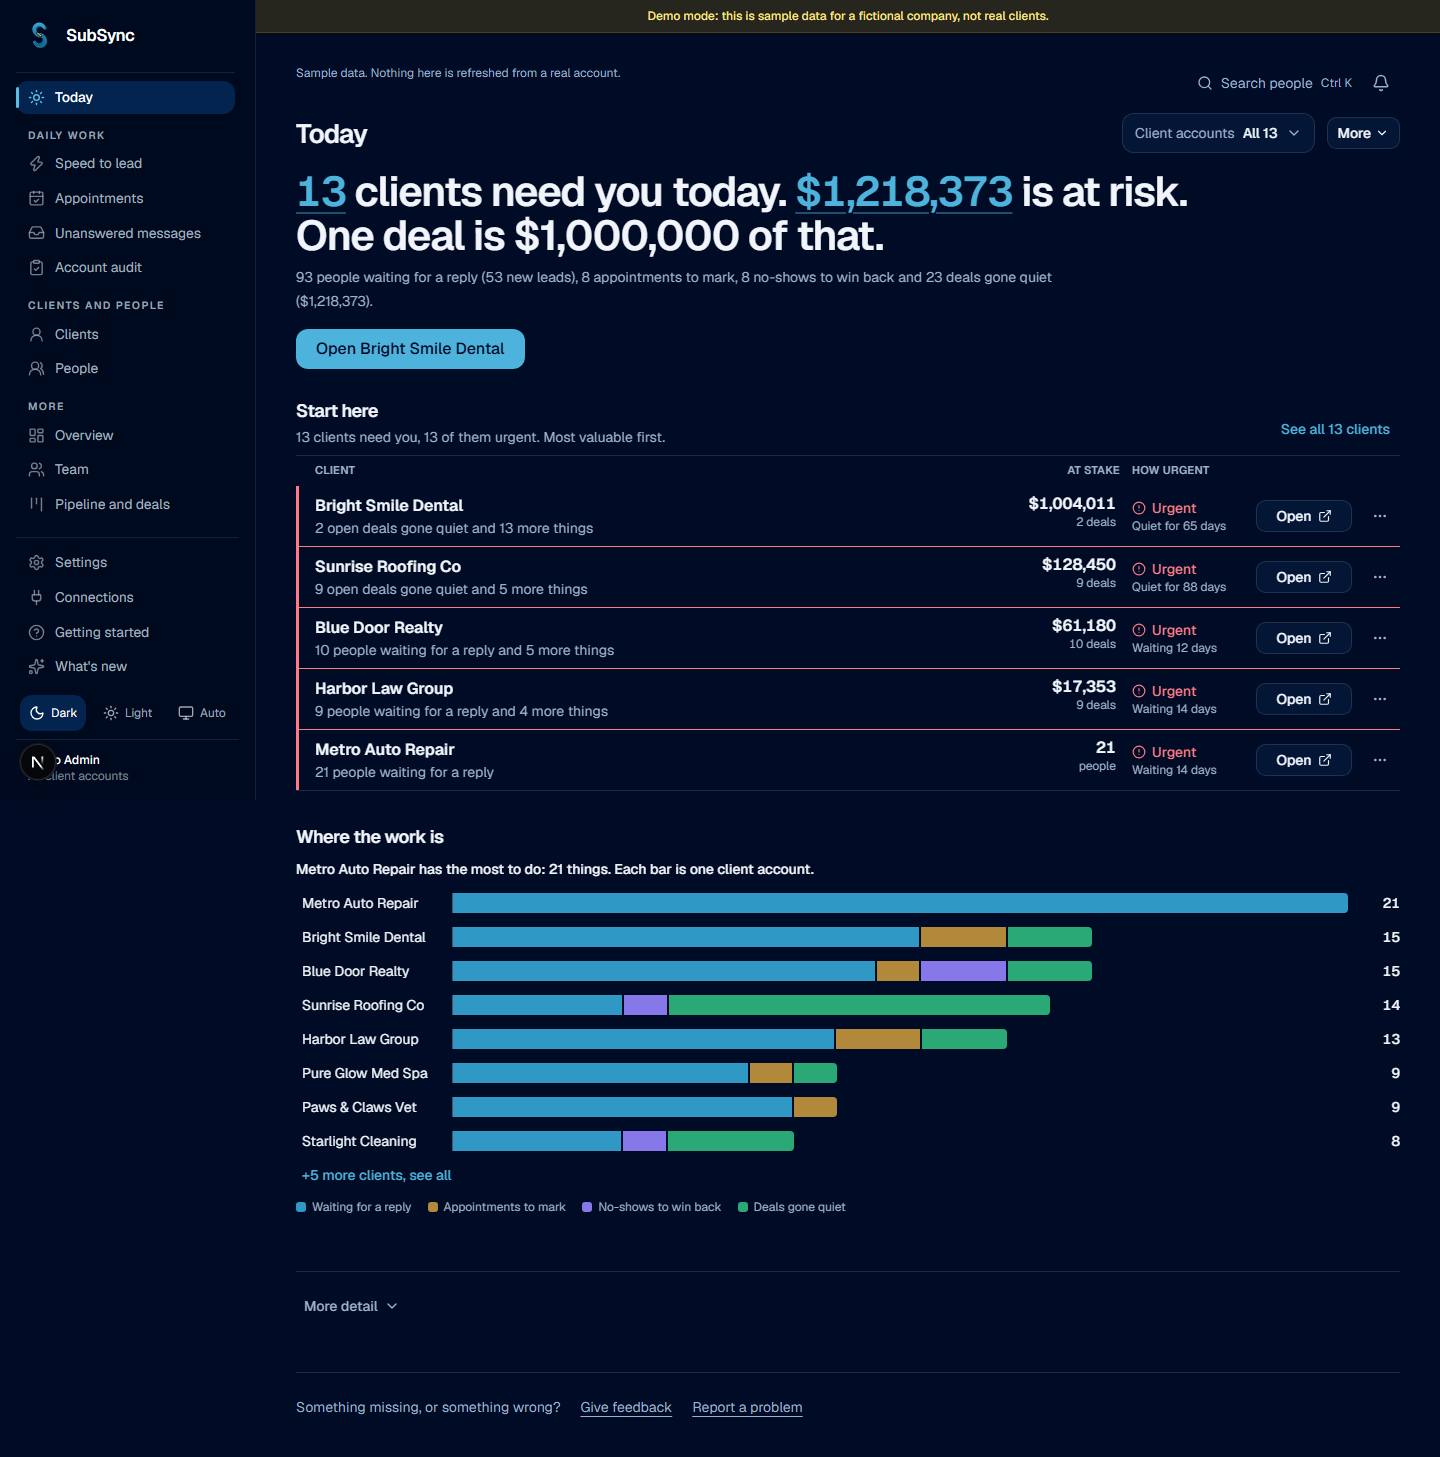
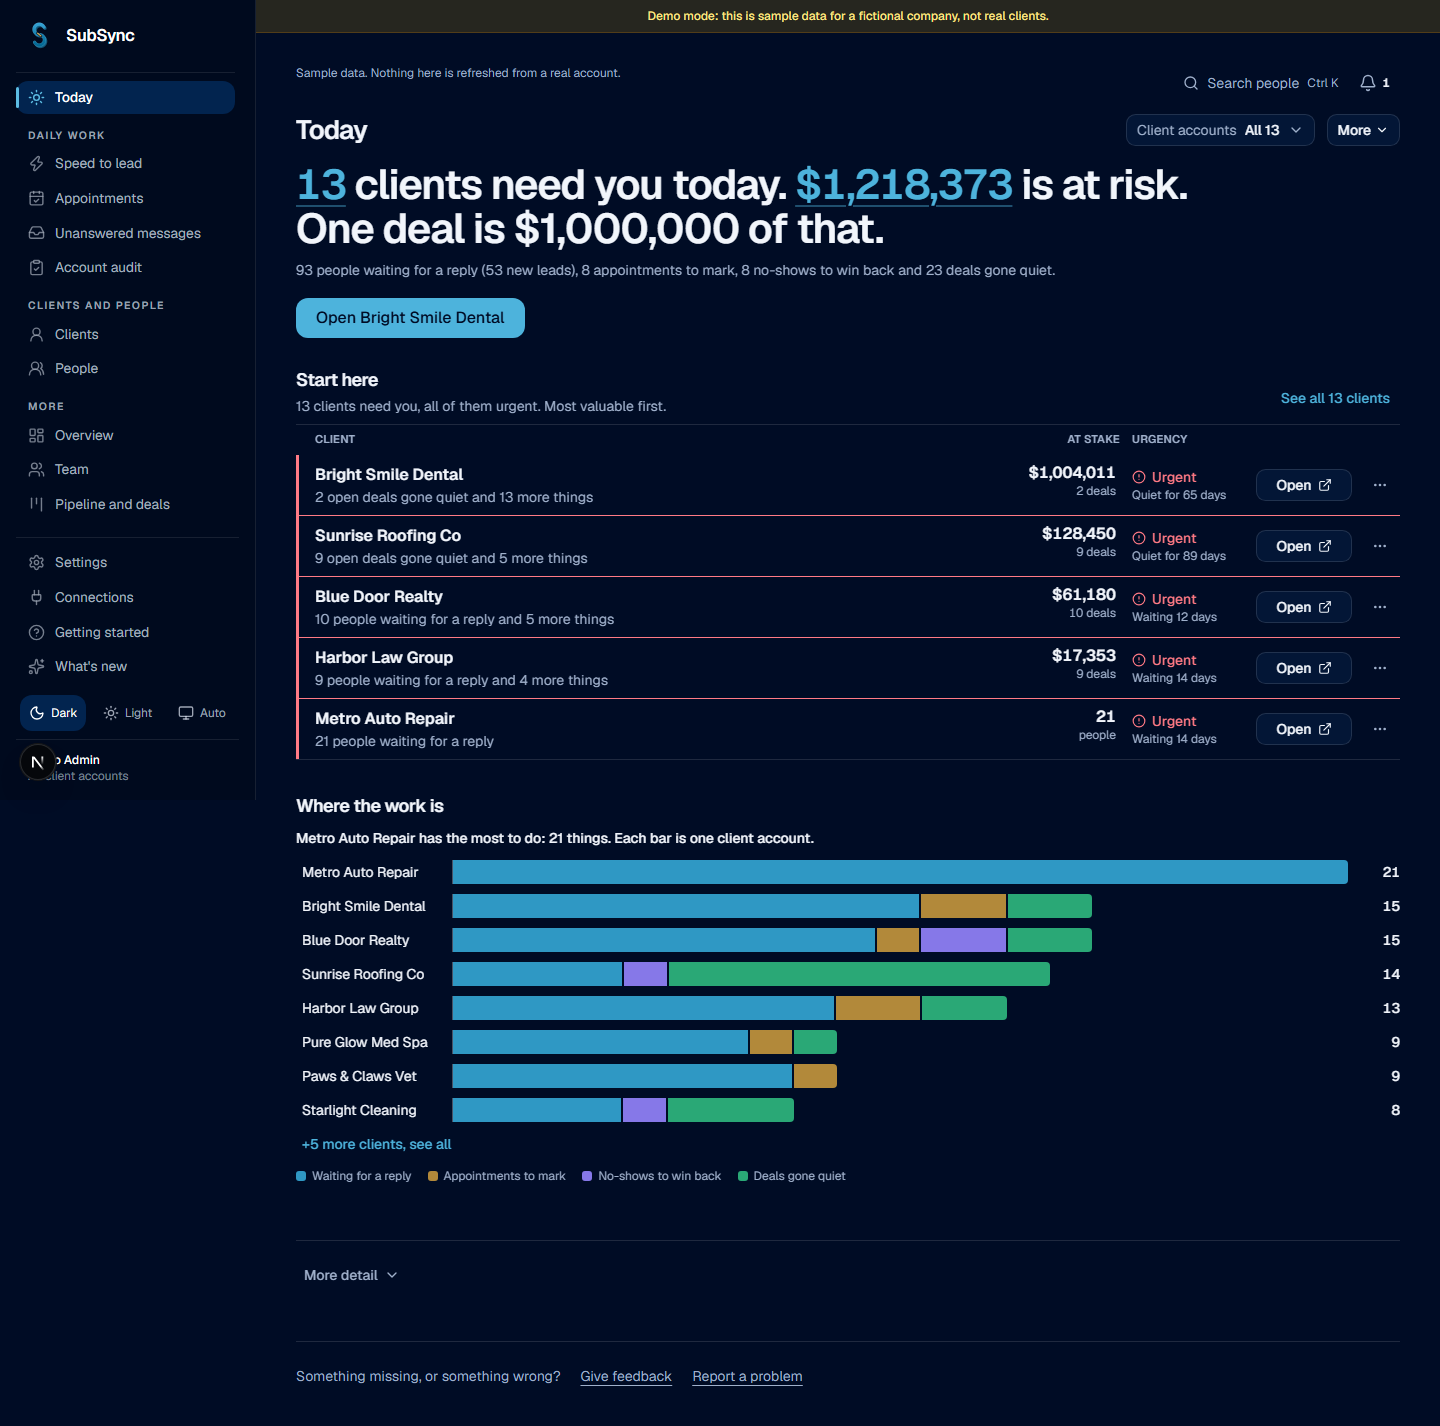
Today v3: screenshots for four roles at three widths, test results, e2e fixes

diff --git a/tests/e2e/today2-records.spec.ts b/tests/e2e/today2-records.spec.ts
@@ -314,6 +314,7 @@ test("a point on the typical-reply line opens the replies behind it, or says why
   await openMore(page);
   const spark = page.getByTestId("pulse-reply").getByTestId("spark-surface");
   if (!(await spark.count())) { await expect(page.getByTestId("spark-empty").first()).toBeVisible(); return; }
+  await spark.scrollIntoViewIfNeeded(); // the figures are under More detail, so the line may be below the fold
   const b = (await spark.boundingBox())!;
   await page.mouse.move(b.x + b.width - 3, b.y + b.height / 2);
   await expect(page.getByTestId("spark-tip")).toBeVisible();
@@ -328,14 +329,15 @@ test("Done for now sets a problem aside and moves the count, the set-aside list 
   test.setTimeout(240_000); // every mark reads Today again; the demo company is slow to answer
   await openToday(page);
   const first = page.getByTestId("queue-row").first();
-  const text = await first.innerText();
+  const reasonOf = () => page.getByTestId("queue-row").first().locator("p").nth(1);
+  const text = (await reasonOf().innerText()).trim(); // what is wrong with the first client account, in words
   const heldBefore = await heldCount(page);
   await first.getByTestId("queue-more").click();
   const [res] = await Promise.all([page.waitForResponse((r) => r.url().includes("/api/app/today/action")), page.getByTestId("menu-done").click()]);
   const eventId = ((await res.json()) as { eventId: number }).eventId;
   try {
     await expect(page.getByTestId("today-toast")).toContainText("Marked done");
-    await expect(page.getByTestId("queue-row").first()).not.toHaveText(text);
+    await expect(reasonOf()).not.toHaveText(text);
     await expect(page.getByTestId("held-link")).toBeVisible();
     await expect(page.getByTestId("held-link")).toContainText("snoozed");
     const held = await heldCount(page);
@@ -347,13 +349,13 @@ test("Done for now sets a problem aside and moves the count, the set-aside list 
     await closePanel(page);
     await page.reload();
     await expect(page.getByTestId("held-link")).toBeVisible({ timeout: 45_000 });
-    await expect(page.getByTestId("queue-row").first()).not.toHaveText(text);
+    await expect(reasonOf()).not.toHaveText(text);
   } finally {
     const { post } = await api(request);
     expect((await post("today/action", { action: "undo", eventId })).status()).toBe(200);
   }
   await page.reload();
-  await expect(page.getByTestId("queue-row").first()).toHaveText(text, { timeout: 45_000 });
+  await expect(reasonOf()).toHaveText(text, { timeout: 45_000 });
 });
 
 test("Done for now then Undo (inside ten seconds) restores the list and the headline", async ({ page }) => {
@@ -362,14 +364,14 @@ test("Done for now then Undo (inside ten seconds) restores the list and the head
   await page.waitForTimeout(1000); // the figures count up for 600 ms
   const headline = await page.getByTestId("today-headline").innerText();
   const rows = page.getByTestId("queue-row");
-  const text = await rows.first().innerText();
+  const text = (await rows.first().locator("p").nth(1).innerText()).trim();
   const heldBefore = await heldCount(page);
   await rows.first().getByTestId("queue-more").click();
   await page.getByTestId("menu-done").click();
   await expect.poll(() => heldCount(page)).toBeGreaterThan(heldBefore);
   await page.getByTestId("today-undo").click();
   await expect.poll(() => heldCount(page), { timeout: 15_000 }).toBe(heldBefore);
-  await expect(rows.first()).toHaveText(text);
+  await expect(rows.first().locator("p").nth(1)).toHaveText(text);
   await expect(page.getByTestId("today-headline")).toHaveText(headline);
 });
 
@@ -400,6 +402,7 @@ test("Snooze 1 day and Snooze until Monday set a problem aside; Assign to me mar
 });
 
 test("server rules: forged rows and people are refused, a client's staff cannot assign, and nobody can undo someone else's mark", async ({ request }) => {
+  test.setTimeout(480_000); // about fifteen calls, each of which reads Today again
   const agency = await api(request);
   const today = await agency.get("today");
   const items = today.items as Json[];

diff --git a/tests/e2e/today3.spec.ts b/tests/e2e/today3.spec.ts
@@ -125,7 +125,7 @@ test("there is one menu item for the day: no 'My day', the old address opens Tod
   await page.goto("/app?as=client#myday");
   await expect(page.getByRole("heading", { level: 1, name: "Today" })).toBeVisible({ timeout: 60_000 });
   await expect(page.getByTestId("today-headline")).toBeVisible();
-  const nav = page.locator('nav[aria-label="Sections"]').first();
+  const nav = page.locator('nav[aria-label="Sections"]:visible').first(); // the side menu, or the row of pages on a phone
   await expect(nav.getByRole("button", { name: "Today" })).toHaveCount(1);
   await expect(nav.getByRole("button", { name: "My day" })).toHaveCount(0);
   await expect(page.getByRole("button", { name: "My day" })).toHaveCount(0);
@@ -173,11 +173,21 @@ test("a person on Reply now: Done for now on one person holds that person only, 
   await page.goto("/app?as=client");
   const rows = page.getByTestId("reply-row");
   await expect(rows.first()).toBeVisible({ timeout: 60_000 });
-  const before = Number((await page.getByTestId("today-headline").innerText()).match(/\d[\d,]*/)![0].replace(/,/g, ""));
+  // The figure counts up for 600 ms: read the number it ends on.
+  const final = async () => Number(((await page.getByTestId("headline-replies").locator("[data-final]").first().getAttribute("data-final")) ?? "").replace(/[^0-9]/g, ""));
+  await expect.poll(final).toBe(counted(t).filter((i) => i.kind === "replies").length);
+  const before = await final();
+  const heldBefore = Object.values(t.holds as Json).map((h: Json) => h.eventId);
   await rows.first().getByTestId("reply-more").click();
-  await page.getByTestId("menu-done").click();
-  await expect(page.getByTestId("today-toast")).toContainText(/Marked done/);
-  await expect(page.getByTestId("today-headline")).toContainText(new RegExp(`^\\s*${before - 1}\\b`), { timeout: 15_000 });
-  await page.getByTestId("today-undo").click();
-  await expect(page.getByTestId("today-headline")).toContainText(new RegExp(`^\\s*${before}\\b`), { timeout: 15_000 });
+  try {
+    await page.getByTestId("menu-done").click();
+    await expect(page.getByTestId("today-toast")).toContainText(/Marked done/);
+    await expect.poll(final, { timeout: 30_000 }).toBe(before - 1);
+    await page.getByTestId("today-undo").click();
+    await expect.poll(final, { timeout: 30_000 }).toBe(before);
+  } finally {
+    // Whatever happened, the demo company is put back: any mark this test made is undone.
+    const now = await who.get("today");
+    for (const h of Object.values(now.holds as Json) as Json[]) if (!heldBefore.includes(h.eventId)) await who.post("today/action", { action: "undo", eventId: h.eventId });
+  }
 });

diff --git a/tests/e2e/today.spec.ts b/tests/e2e/today.spec.ts
@@ -178,11 +178,14 @@ test("there is no donut: every bar segment opens exactly its own records, and th
 });
 
 test("the amount on a work-list row opens exactly that client account's records, and the count equals the rows", async ({ page }) => {
+  test.setTimeout(240_000);
   await page.goto("/app");
   const row = page.getByTestId("queue-row").first();
   await expect(row).toBeVisible({ timeout: 45_000 });
   const count = Number(await row.getByTestId("queue-amount").getAttribute("data-count"));
-  await row.getByTestId("queue-amount").click();
+  // On a wide list the amount is a button; on a phone the amount folds under the reason and the same list opens from the row menu.
+  if (await row.getByTestId("queue-amount").isVisible()) await row.getByTestId("queue-amount").click();
+  else { await row.getByTestId("queue-more").click(); await page.getByTestId("menu-show").click(); }
   const panel = page.getByTestId("records-panel");
   await expect(panel).toBeVisible();
   const heading = Number(await panel.getByTestId("records-count").getAttribute("data-count"));
@@ -220,6 +223,7 @@ test("the bars: one per client account, longest first, at most 8 and a '+N more'
 });
 
 test("raised and cleared: each day with alerts opens its list; the number on the day is the rows; the word is cleared", async ({ page }) => {
+  test.setTimeout(240_000);
   await page.goto("/app");
   await openMore(page);
   const strip = page.getByTestId("raised-cleared");
@@ -299,6 +303,7 @@ test("the change figures read only what the person may see: a client's staff are
 });
 
 test("a business and a client's staff get one account from the server, even when the address names another", async ({ request }) => {
+  test.setTimeout(300_000); // a dozen reads of Today
   const agency = await api(request);
   const all = await agency.get("today");
   const ids = (all.accounts as Json[]).map((a) => a.id as string);

diff --git a/tests/e2e/today-helpers.ts b/tests/e2e/today-helpers.ts
@@ -24,13 +24,13 @@ export async function api(request: APIRequestContext, as?: "business" | "client"
 export const isJunk = (i: Json, now: number, staleDays: number) =>
   i.kind === "stale" && ((i.at !== null && now - i.at > staleDays * 3 * 86_400_000) || /(^|[^a-z0-9])(test|testing|demo|sample|sandbox|dummy)([^a-z0-9]|$)/i.test(i.name));
 
-/** The items Today counts by default (test and very old deals left out). */
-export const counted = (t: Json): Json[] => (t.items as Json[]).filter((i) => !isJunk(i, t.now, t.staleDays));
+/** The items Today counts by default (test and very old deals left out, and anything set aside with Done or Snooze). */
+export const counted = (t: Json): Json[] => (t.items as Json[]).filter((i) => !isJunk(i, t.now, t.staleDays) && !(t.holds as Json)[i.id]);
 
 /** Opens "More detail" (closed until asked for) and, if given, one of its tabs. */
 export async function openMore(page: Page, tab?: string) {
   const toggle = page.getByTestId("more-detail-toggle");
-  await expect(toggle).toBeVisible({ timeout: 30_000 });
+  await expect(toggle).toBeVisible({ timeout: 90_000 });
   if ((await toggle.getAttribute("aria-expanded")) !== "true") await toggle.click();
   if (tab) await page.getByRole("tab", { name: tab }).click();
 }

diff --git a/docs/features/TODAY.md b/docs/features/TODAY.md
@@ -36,6 +36,14 @@ Waiting for a reply = distinct people who are either a new lead past the reply t
 
 Unit: `src/lib/__tests__/today-count.test.ts` (the counting rule, one number per fact, titles, 150 accounts), `today-queue.test.ts`, `today-smart.test.ts`, `today-state.test.ts`, `today-records.test.ts`; `tests/unit/today-lists.test.ts` (five rows inline at 150 accounts, the compact grid, the bars), `f5-today.test.ts`, `ds-components.test.ts`. Database (shared project, fixtures removed): `today-db`, `today-actions-db` (one-person marks, forged people refused). Browser: `tests/e2e/today.spec.ts`, `today3.spec.ts` (the acceptance list for four roles at three widths), and the second-pass specs updated to the new layout. Screenshots: `docs/review/today-v3-<role>-<width>.png` for agency, agency-account, client and business at 1440, 768 and 390 (a `-full` file beside each is the whole page).
 
+## Results (4 Nov 2026, demo company, one slow machine)
+
+- `npx next typegen && npx tsc --noEmit`: 0 errors. `npx eslint src tests`: 0 errors, 11 warnings (older ones plus unused test variables).
+- `node --test src/lib/__tests__/`: tests 838, pass 838, fail 0.
+- `npx vitest run --no-file-parallelism` (once, alone): Test Files 1 failed | 60 passed (61), Tests 1 failed | 741 passed (742). The one failure is `tests/unit/data-inventory.test.ts`, "the migration reader matches the live database": the live database has a `cached_contacts.first_seen_at` column that no migration file creates. It is not part of Today and this branch adds no migration.
+- Browser, desktop 1440: `today3.spec.ts` 14 of 14, `today2.spec.ts` 3 of 3, `today2-controls.spec.ts` 8 of 8, `today2-records.spec.ts` 17 of 17, `today.spec.ts` 21 of 21. Phone 390 and tablet 768: `today.spec.ts` and `today3.spec.ts` all pass (`today3` skips the "above the fold" test off desktop); `d0.spec.ts` "client's staff open Today" passes at all three widths. Some tests failed on a first run because of the test or the busy shared machine (a stale selector, a 90 second limit on tests that read Today a dozen times, a number read in the middle of its count-up), were fixed and re-run alone, and then passed.
+- Screenshots: `docs/review/today-v3-<role>-<width>.png` for agency, agency-account (an agency person inside one client account), client and business at 1440, 768 and 390; a `-full` file beside each shows the whole page. The "before" is the v2 screenshots (`docs/review/today2-*.png`, `today-after-desktop-1440.png`) and King's live screenshot described in `docs/TODAY_REVIEW.md`; the working tree was changed in place, so there is no new "before" capture.
+
 ## NOT verified
 
 Everything ran on the demo company. Not run on real installs: the merge of new leads and conversations on real data (the demo has leads that are also conversations; the real mix may differ), a real agency with 100 accounts (150 accounts are tested as a fixture), the look on King's own screen and the white-label links of a real agency. A count of people waiting is an upper bound when either source list was cut at its cap (200 leads, 100 conversations); the list then says "first ones only".
